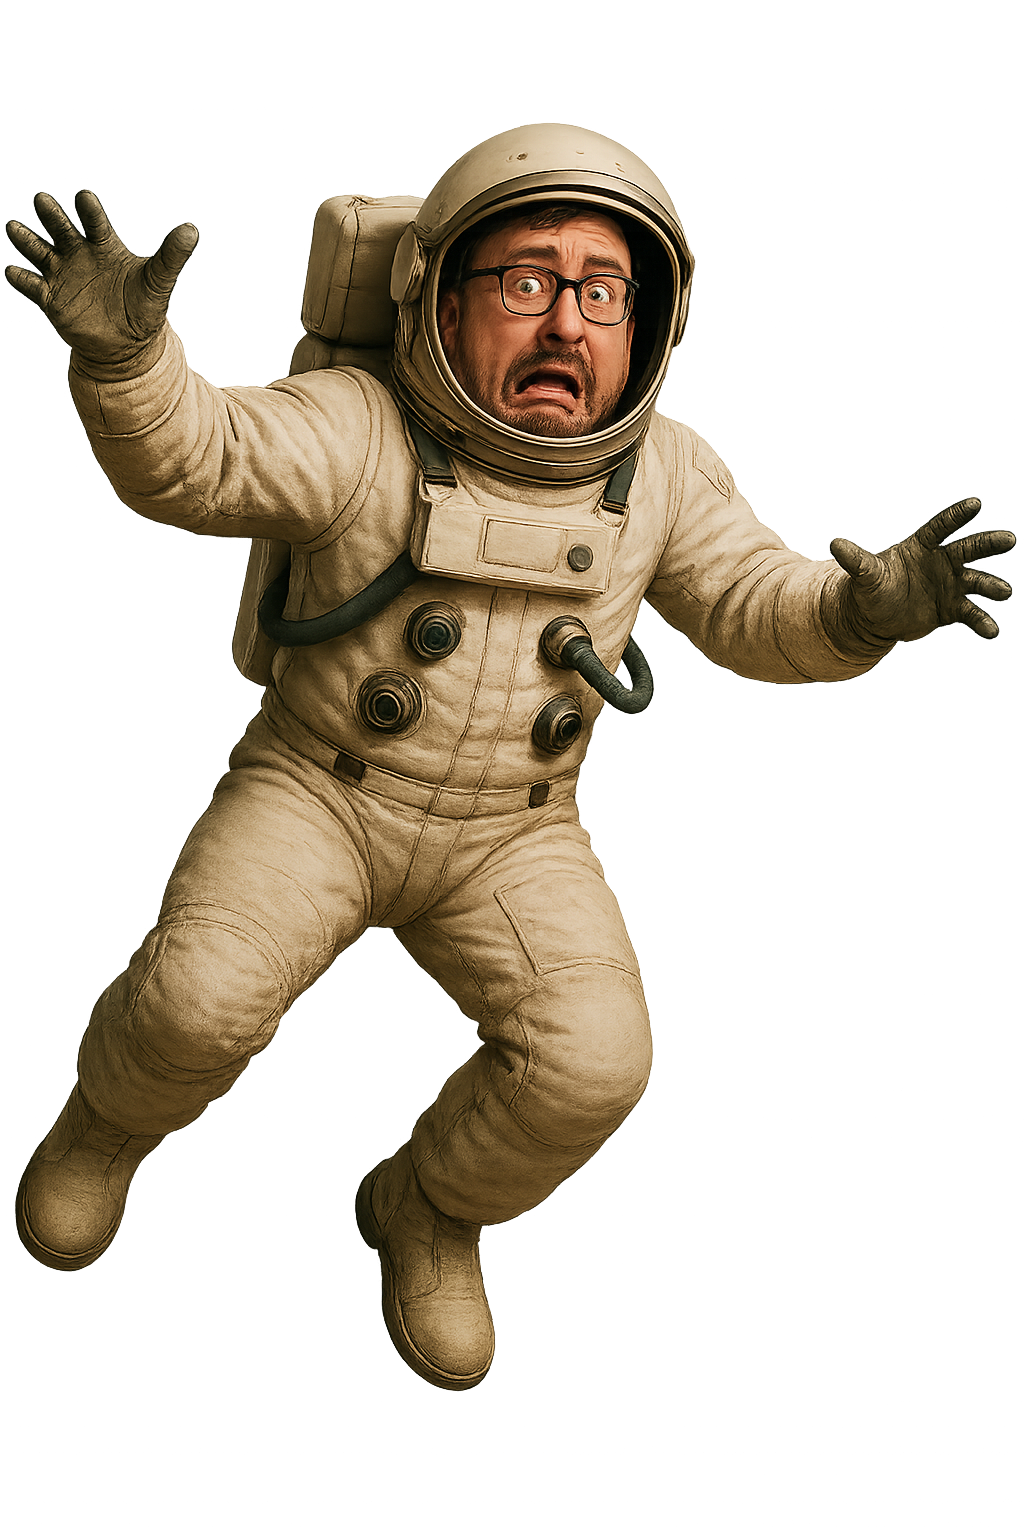
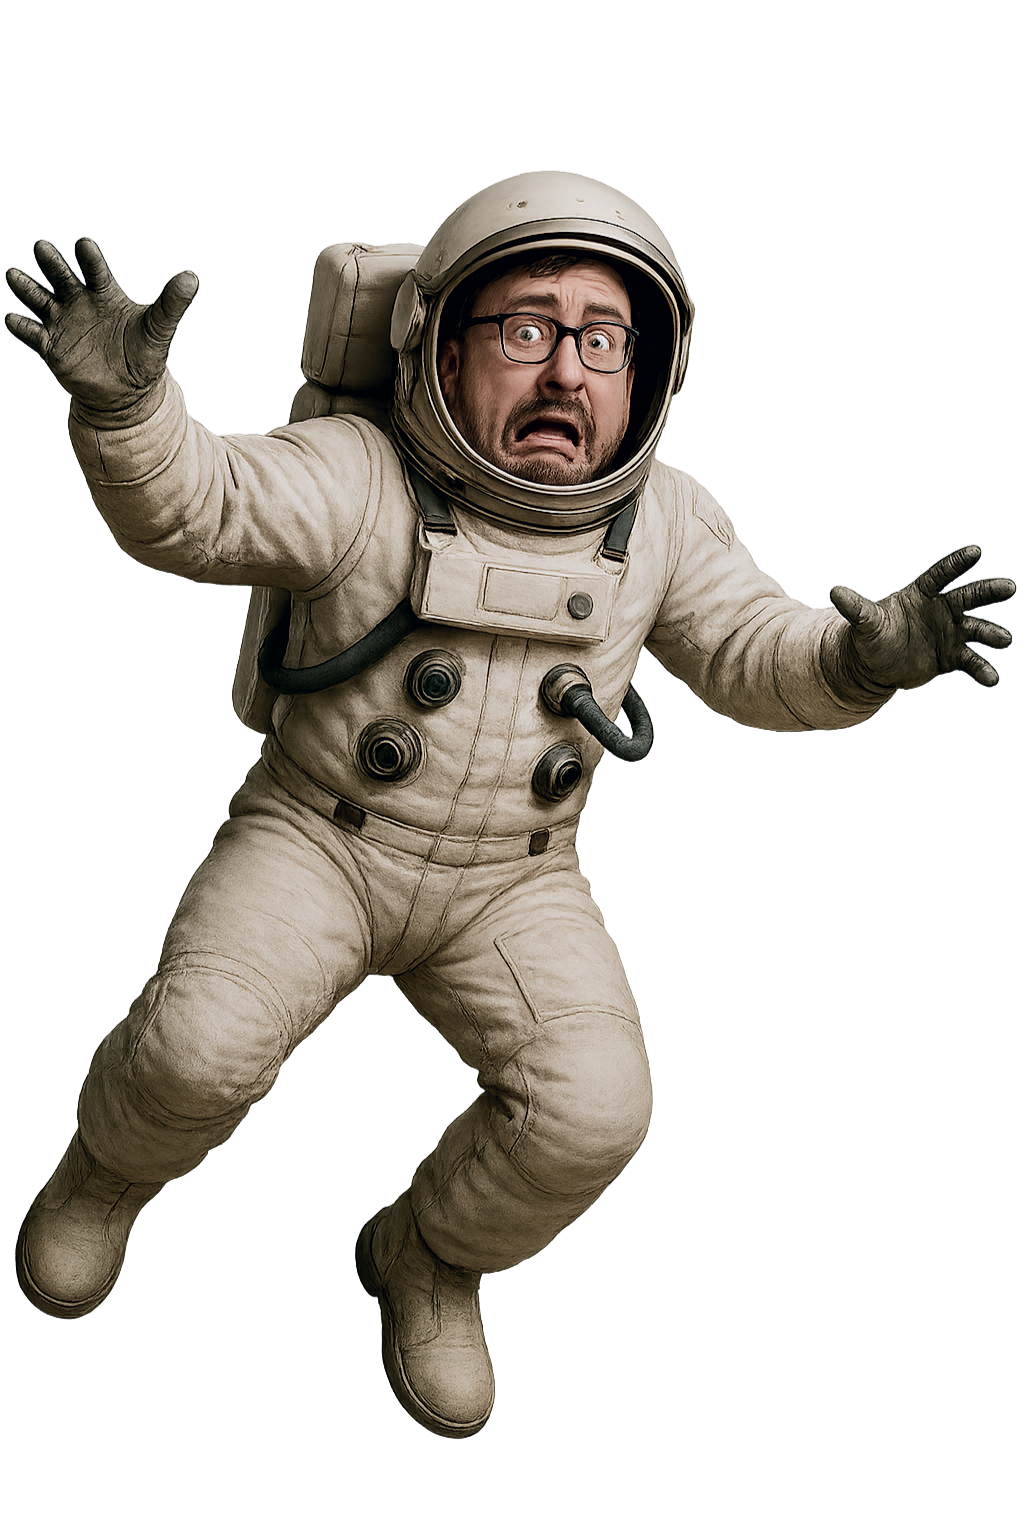
fix: updated thursted astronauts color schemes

diff --git a/portfolio/src/components/FloatingAstronaut.tsx b/portfolio/src/components/FloatingAstronaut.tsx
@@ -9,7 +9,7 @@ export default function FloatingAstronaut() {
     const imgRef = useRef<HTMLImageElement>(null);
     const audioRef = useRef<HTMLAudioElement | null>(null);
     const [isLaunching, setIsLaunching] = useState(false);
-    const [thrustedImage, setThrustedImage] = useState("/astronaut-thrusted.png");
+    const [thrustedImage, setThrustedImage] = useState("/astronaut-thrusted-1.png");
 
     const spawnParticles = () => {
         const container = puffContainerRef.current;
@@ -20,7 +20,6 @@ export default function FloatingAstronaut() {
             const puff = document.createElement("div");
             puff.className = "steam-puff";
 
-            // starting position at the center of the astronaut
             Object.assign(puff.style, {
                 position: "absolute",
                 top: "50%",
@@ -45,7 +44,6 @@ export default function FloatingAstronaut() {
 
             container.appendChild(puff);
 
-            // trigger transition to final position on next frame
             requestAnimationFrame(() => {
                 const x = Math.cos(angle) * distance;
                 const y = Math.sin(angle) * distance;
@@ -89,20 +87,23 @@ export default function FloatingAstronaut() {
         setIsLaunching(true);
         spawnParticles();
 
-        // Randomly pick a thrust variant
-        const variant = Math.random() < 0.5 ? 1 : 2;
-        setThrustedImage(`/thrusted-astronaut-${variant}.png`);
+        // Alternate between astronaut images
+        const nextVariant = thrustedImage.includes("1") ? 2 : 1;
+        setThrustedImage(`/thrusted-astronaut-${nextVariant}.png`);
 
         if (audioRef.current) {
             audioRef.current.currentTime = 0;
             audioRef.current.volume = 0.3;
             audioRef.current.play();
+            setTimeout(() => {
+                if (audioRef.current) audioRef.current.pause();
+            }, Math.max(0, (audioRef.current?.duration || 2) * 1000 - 1000)); // stop 1s early // stop after 400ms
         }
 
         containerRef.current.style.transition = "transform 0.6s ease-in-out";
-        const y = -20 - Math.random() * 40; // -20vh to -60vh
+        const y = -20 - Math.random() * 40;
         const r = (Math.random() * 90) * (Math.random() < 0.5 ? -1 : 1);
-        const s = 1.1 + Math.random() * 0.3; // scale between 1.1 and 1.4
+        const s = 1.1 + Math.random() * 0.3;
         containerRef.current.style.transform = `translateY(${y}vh) rotate(${r}deg) scale(${s})`;
 
         setTimeout(() => {
